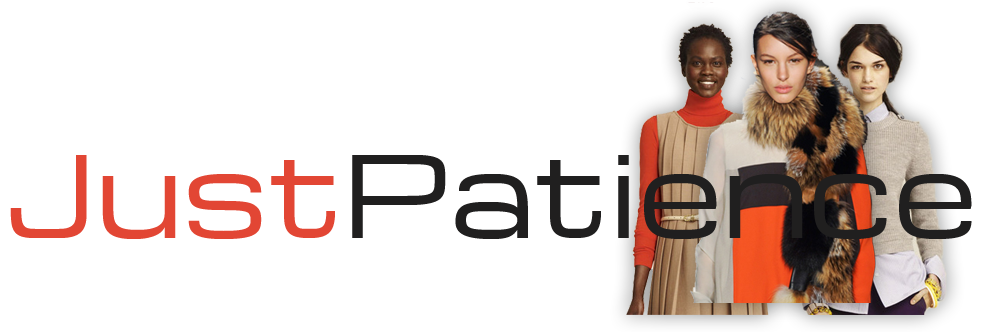
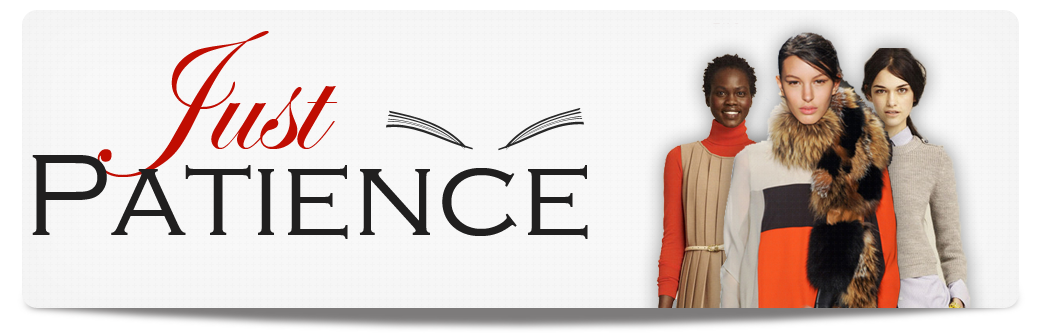
new design

diff --git a/style.css b/style.css
@@ -116,6 +116,7 @@ h4 {
 	/*background: url(images/illustration2.png) no-repeat 100px -50px;*/
 	background-size:12%;
 	overflow:visible;
+	z-index:300;
 }
 
 #header {
@@ -123,7 +124,7 @@ h4 {
 	height:324px;
 	padding:0 0 10px 0;
 	margin:0px 0 0px 0;
-	background:url(images/header_bg8.png) no-repeat -20px 0px;
+	background:url(images/header_bg10.png) no-repeat -20px 0px;
 	position:relative;
 	/*border-bottom:2px #ddd dotted;*/
 	/*border-radius:12px;*/
@@ -166,14 +167,14 @@ h4 {
 #menu {
 	width:100%;
 	overflow:hidden;
-	padding:3px 0 2px 0;
+	padding:6px 0;
 	margin:0 0 10px 0;
 	/*border:1px #555 solid;*/
-	border-top:1px #ddd solid;
-		border-bottom:1px #999 solid;
+	/*border-top:1px #ddd solid;
+			border-bottom:1px #999 solid;*/
 		position:absolute;
 		bottom:0;
-	/*background:#fff;*/
+	background:#fff;
 	filter: progid: DXImageTransform.Microsoft.gradient(startColorstr = '#f7f7f7', endColorstr = '#d7dbd7');
 	/*INNER ELEMENTS MUST NOT BREAK THIS ELEMENTS BOUNDARIES*/
 	/*Element must have a height (not auto)*/
@@ -181,12 +182,12 @@ h4 {
 	-ms-filter: "progid: DXImageTransform.Microsoft.gradient(startColorstr = '#f7f7f7', endColorstr = '#d7dbd7')";
 	/*Element must have a height (not auto)*/
 	/*All filters must be placed together*/
-	background-image: -moz-linear-gradient(top, #f7f7f7, #d7dbd7);
-			background-image: -ms-linear-gradient(top, #f7f7f7, #d7dbd7);
-			background-image: -o-linear-gradient(top, #f7f7f7, #d7dbd7);
-			background-image: -webkit-gradient(linear, center top, center bottom, from(#f7f7f7), to(#d7dbd7));
-			background-image: -webkit-linear-gradient(top, #f7f7f7, #d7dbd7);
-			background-image: linear-gradient(top, #f7f7f7, #d7dbd7);
+	/*background-image: -moz-linear-gradient(top, #f7f7f7, #d7dbd7);
+				background-image: -ms-linear-gradient(top, #f7f7f7, #d7dbd7);
+				background-image: -o-linear-gradient(top, #f7f7f7, #d7dbd7);
+				background-image: -webkit-gradient(linear, center top, center bottom, from(#f7f7f7), to(#d7dbd7));
+				background-image: -webkit-linear-gradient(top, #f7f7f7, #d7dbd7);
+				background-image: linear-gradient(top, #f7f7f7, #d7dbd7);*/
 	/*--IE9 DOES NOT SUPPORT GRADIENT BACKGROUNDS--*/
 }
 
@@ -206,15 +207,15 @@ h4 {
 }
 
 .main_nav li {
-	font-family:'lucida grande';
-	font-size:16px;
+	font-family:'Zapfino';
+	font-size:14px;
 	font-weight:;
 	font-style:;
 	letter-spacing:1px;
 	float:left;
 	display:inline-block;
 	padding:0 24px;
-	margin:0 0px 0 0;
+	margin:6px 0px 0 0;
 	/*background:url(images/nav_bg2.png) no-repeat;*/
 	border-right:1px #ddd solid;
 	/*border-bottom:2px #ccc dotted;*/
@@ -235,11 +236,12 @@ h4 {
 	line-height:42px;
 	padding:0 18px;
 	font-weight:bold;
-	text-decoration:;
+	text-decoration:none;
 	text-transform:capitalize;
 	color:#000;
 	display:inline-block;
 	background:;
+	/*border-bottom:2px #fff solid;*/
 	/*border-bottom:#555 3px solid;*/
 	
 	
@@ -250,8 +252,13 @@ h4 {
 
 .main_nav li a:hover {
 	/*border-top:3px #ddd solid;*/
-	color:#000;
+	color:#ec4b1d;
 	/*background:url(images/nav_bg.png);*/
+	text-decoration:underline;
+}
+
+.main_nav .current_page_item a {
+/*	color:#c90391;*/
 }
 
 #content {
@@ -270,7 +277,7 @@ h4 {
 #main_content {
 	float:left;
 	width:640px;
-	padding:18px;
+	padding:30px;
 	margin:30px 0 0 0;
 	/*border-right:1px #ddd solid;*/
 	background:#fff;
@@ -320,8 +327,8 @@ h4 {
 }
 
 .entry h2 {
-	font-family:'lucida grande';
-	font-size:18px;
+	font-family:'copperplate gothic light';
+	font-size:20px;
 	line-height:22px;
 	font-weight:normal;
 	font-style:;
@@ -352,7 +359,7 @@ h4 {
 
 
 .entry h3 {
-	font-family:'lucida grande';
+	font-family:'copperplate gothic light';
 	font-size:18px;
 	line-height:18px;
 	font-weight:normal;
@@ -396,13 +403,13 @@ h3.comment span {
 }
 
 #sidebar h2 {
-	height:;
+	height:50px;
 	width:;
-	font-family:'baskerville';
-	font-size:22px;
+	font-family:'Zapfino';
+	font-size:18px;
 	font-weight:;
 	font-style:italic;
-	padding:6px 9px;
+	padding:;
 	margin:30px 0 18px 0;
 	text-align:center;
 	text-transform:capitalize;
@@ -417,11 +424,11 @@ h3.comment span {
 
 
 p {
-	font-family:;
-	font-size:14px;
+	font-family:georgia, serif;
+	font-size:12px;
 	font-style:;
-	line-height:24px;
-	color:#555;
+	line-height:18px;
+	color:#333;
 	margin:40px 0;
 }
 
@@ -902,10 +909,11 @@ color:#fff;
 #footer {
 	width:100%;
 	height:;
-	background:#f4f4f4;
+	background:#fff;
 	clear:both;
 	position:fixed;
 	bottom:0;
+	border-top:3px #555 solid;
 }
 
 .footer-nav {
@@ -1000,9 +1008,9 @@ color:#fff;
 #footer-categories{
 	width:1000px;
 	overflow:hidden;
-	padding:9px 0px 0;
+	padding:6px 0px 0;
 	margin:0 auto;
-	border-top:3px #555 solid;
+	/*border-top:3px #555 solid;*/
 }
 
 #footer-categories h2 {
@@ -1049,7 +1057,7 @@ color:#fff;
 	overflow:hidden;
 	margin:0 auto;
 	background:#fff;
-	border-top:3px #555 solid;
+	/*border-top:3px #555 solid;*/
 }
 
 
@@ -1103,19 +1111,30 @@ color:#fff;
 }
 
 #top_nav {
-	height:;
+	height:36px;
 	border-bottom:2px #555 solid;
+	background:#fff;
+	margin:0;
+	overflow:visible;
+	z-index:9999;
 }
 
 #top_nav ul {
-	width:1000px;
+	width:960px;
 	margin:0 auto;
-	overflow:hidden;
+	/*overflow:hidden;*/
 }
 
-#top_nav ul li {
+#top_nav ul>li {
 	float:left;
-	margin:0 36px 0 0;
+	font-family:arial;
+	font-size:12px;
+	line-height:36px;
+	text-transform:uppercase;
+	padding:0 48px 0 0;
+	margin:0 48px 0 0;
+	border-right:1px #ddd solid;
+	position:relative;
 }
 
 #top_nav ul li a {
@@ -1123,11 +1142,36 @@ color:#fff;
 	text-decoration:none;
 }
 
+/*----------------------------------- drop down nav styles ------------------------------*/
 
+.drop-down {
+	width:500px;
+	height:400px;
+	padding:18px;
+	z-index:10000;
+	position:absolute;
+	top:38px;
+	left:-50px;
+	background:#fff;
+}
 
+.drop-down p {
+	margin:0 0 12px 0;
+}
 
+.hide {
+	display:none;
+}
 
+.show {
+	display:visible;
+}
 
+#subscribe {
+	position:fixed;
+	top:300px;
+	left:0;
+}
 
 
 

diff --git a/js/site.js b/js/site.js
@@ -1,5 +1,19 @@
 $(document).ready(function() {
 	
+	//top drop down menu
+	
+	$('.drop-down').hide();
+	
+	$('#top_nav ul > li').hover(function(e) {
+	
+		$(this).find('.drop-down').slideDown('fast');
+	},	
+	function(e) {
+		$(this).find('.drop-down').hide('slow');
+		    
+	});	
+	
+	
 	$('#footer').hide();
 	
 	$(window).scroll(function(){

diff --git a/header.php b/header.php
@@ -45,6 +45,8 @@
 
 <body>
 	
+	<div id="subscribe"><img src="<?php echo(get_bloginfo('template_directory')); ?>/images/subscribe.png" width="" height="" alt="" /></div>
+	
 	<div id="fb-root"></div>
 	<script>(function(d, s, id) {
 	  var js, fjs = d.getElementsByTagName(s)[0];
@@ -55,13 +57,25 @@
 	}(document, 'script', 'facebook-jssdk'));</script>
 	
 
-	<div id="top_nav">
+	<div id="top_nav" class="cleafix">
 		
-		<ul>
+		<ul class="clearfix">
 			<li><a href="#" title="">subscribe</a></li>
-			<li><a href="#" title="">subscribe</a></li>
-			<li><a href="#" title="">subscribe</a></li>
-			<li><a href="#" title="">subscribe</a></li>
+			<li><a href="#" title="">categories</a>
+				<div class="drop-down">
+				<?php $categories = get_categories( $args );?> 
+				
+				<?php foreach($categories as $category) {
+					?>
+						
+					<p>
+					<?php echo $category->name; ?>
+					</p>
+				
+				<?php }
+				?></div></li>
+			<li><a href="#" title="">popular posts</a></li>
+			<li><a href="#" title="">shopping</a></li>
 		</ul>
 
 	</div><!--top_nav-->

diff --git a/single.php b/single.php
@@ -65,9 +65,12 @@
 		      get_permalink(),
 		      the_title_attribute('echo=0'),
 		      comments_rss() ) ?>
+		
+			<br />
+			<br />
 
 		<?php if ( ('open' == $post->comment_status) && ('open' == $post->ping_status) ) : // Comments and trackbacks open ?>
-		      <?php printf( __( '<a class="comment-link" href="#respond" title="Post a comment">Post a comment</a>', 'your-theme' ), get_trackback_url() ) ?>
+		      <?php printf( __( '<a class="comment-link" href="#respond" title="Post a comment">Comment</a>', 'your-theme' ), get_trackback_url() ) ?>
 		<?php elseif ( !('open' == $post->comment_status) && ('open' == $post->ping_status) ) : // Only trackbacks open ?>
 		      <?php printf( __( 'Comments are closed, but you can leave a trackback: <a class="trackback-link" href="%s" title="Trackback URL for your post" rel="trackback">Trackback URL</a>.', 'your-theme' ), get_trackback_url() ) ?>
 		<?php elseif ( ('open' == $post->comment_status) && !('open' == $post->ping_status) ) : // Only comments open ?>

diff --git a/footer.php b/footer.php
@@ -95,7 +95,7 @@
 				<div id="footer-comment-link">
 					
 					<?php if ( ('open' == $post->comment_status) && ('open' == $post->ping_status) ) : // Comments and trackbacks open ?>
-					      <?php printf( __( '<a class="comment-link" href="#respond" title="Post a comment">Post a comment</a>', 'your-theme' ), get_trackback_url() ) ?>
+					      <?php printf( __( '<a class="comment-link" href="#respond" title="Post a comment">Comment</a>', 'your-theme' ), get_trackback_url() ) ?>
 					<?php elseif ( !('open' == $post->comment_status) && ('open' == $post->ping_status) ) : // Only trackbacks open ?>
 					      <?php printf( __( 'Comments are closed, but you can leave a trackback: <a class="trackback-link" href="%s" title="Trackback URL for your post" rel="trackback">Trackback URL</a>.', 'your-theme' ), get_trackback_url() ) ?>
 					<?php elseif ( ('open' == $post->comment_status) && !('open' == $post->ping_status) ) : // Only comments open ?>

diff --git a/index.php b/index.php
@@ -75,8 +75,10 @@ error_reporting(E_ALL);
 			      <span class="meta-sep"> | </span>
 			      <?php the_tags( '<span class="tag-links"><span class="entry-utility-prep entry-utility-prep-tag-links">' . __('Tagged ', 'your-theme' ) . '</span>', ", ", "</span>\n\t\t\t\t\t\t<span class=\"meta-sep\">|</span>\n" ) ?>
 			
-				<span class="meta-sep"> | </span>
+				<span class="meta-sep"></span>
 				
+				<br />
+				<br />
 			      <span class="comments-link"><?php comments_popup_link( __( 'Leave a comment', 'your-theme' ), __( '1 Comment', 'your-theme' ), __( '% Comments', 'your-theme' ) ) ?></span>
 			      <?php edit_post_link( __( 'Edit', 'your-theme' ), "<span class=\"meta-sep\">|</span>\n\t\t\t\t\t\t<span class=\"edit-link\">", "</span>\n\t\t\t\t\t\n" ) ?><p>
 			     </div><!– #entry-utility –>
